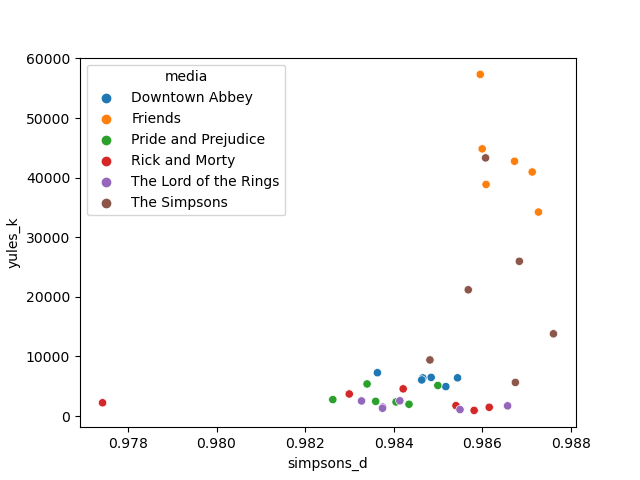
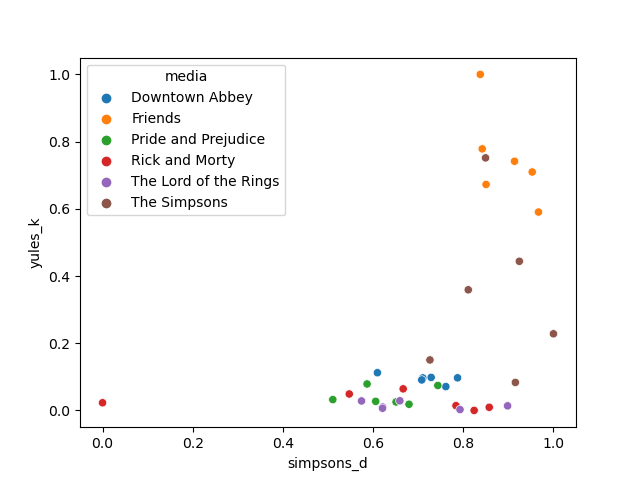
Improved heuristic visuals

diff --git a/code/visualizations.py b/code/visualizations.py
@@ -1,24 +1,45 @@
 import pandas as pd
 import matplotlib.pyplot as plt
 import seaborn as sns
+from sklearn.preprocessing import MinMaxScaler
+import warnings
 
-#bring in data/heuristics.csv file as a dataframe
-heuristics = pd.read_csv('../data/heuristics.csv')
+with warnings.catch_warnings():
+    warnings.filterwarnings("ignore", category=FutureWarning)
 
-#create scatterplot of simpsons_d vs yules_k
-sns.scatterplot(x='simpsons_d', y='yules_k', hue='media', data=heuristics)
-plt.savefig('../images/heuristics.png')
+    #bring in data/heuristics.csv file as a dataframe
+    heuristics = pd.read_csv('../data/heuristics.csv')
+    #use MinMaxScaler to scale simpsons_d and yules_k to be between 0 and 1
+    scaler = MinMaxScaler()
+    heuristics[['simpsons_d', 'yules_k']] = scaler.fit_transform(heuristics[['simpsons_d', 'yules_k']])
 
-#create smaller df with only The Simpsons and Friends
-heuristics_simpsons_friends = heuristics[(heuristics['media'] == 'The Simpsons') | (heuristics['media'] == 'Friends')]
-#further filter by removing Mr. Burns and Mo
-heuristics_simpsons_friends = heuristics_simpsons_friends[~heuristics_simpsons_friends['speaker'].isin(['C. Montgomery Burns', 'Moe Szyslak'])]
+    #create scatterplot of simpsons_d vs yules_k
+    sns.scatterplot(x='simpsons_d', y='yules_k', hue='media', data=heuristics)
+    plt.savefig('../images/heuristics.png')
 
-plt.cla()
-plt.figure(figsize=(8, 8))
-sns.scatterplot(x='simpsons_d', y='yules_k', hue='speaker', style='media', data=heuristics_simpsons_friends)
-plt.legend(loc='upper center', bbox_to_anchor=(0.5, -0.05),
-          fancybox=True, shadow=True, ncol=5)
-plt.tight_layout()
-plt.savefig('../images/heuristics_drilldown.png')
+    '''
+    #create smaller df with only The Simpsons and Friends
+    heuristics_simpsons_friends = heuristics[(heuristics['media'] == 'The Simpsons') | (heuristics['media'] == 'Friends')]
+    #further filter by removing Mr. Burns and Mo
+    heuristics_simpsons_friends = heuristics_simpsons_friends[~heuristics_simpsons_friends['speaker'].isin(['C. Montgomery Burns', 'Moe Szyslak'])]
 
+    plt.cla()
+    plt.figure(figsize=(8, 8))
+    sns.scatterplot(x='simpsons_d', y='yules_k', hue='speaker', style='media', data=heuristics_simpsons_friends)
+    plt.legend(loc='upper center', bbox_to_anchor=(0.5, -0.05),
+            fancybox=True, shadow=True, ncol=5)
+    plt.tight_layout()
+    plt.savefig('../images/heuristics_drilldown.png')
+    '''
+    #for each distinct value in the media column of the heuristics df, create a scatterplot of simpsons_d vs yules_k
+    for media in heuristics['media'].unique():
+        plt.cla()
+        plt.figure(figsize=(8, 8))
+        sns.scatterplot(x='simpsons_d', y='yules_k', hue='speaker', style='media', data=heuristics[heuristics['media'] == media])
+        
+        for i, txt in enumerate(heuristics[heuristics['media'] == media]['speaker']):
+            plt.annotate(txt, (heuristics[heuristics['media'] == media]['simpsons_d'].iloc[i], heuristics[heuristics['media'] == media]['yules_k'].iloc[i]))
+        #explicitly remove the legend
+        plt.legend().remove()
+        plt.tight_layout()
+        plt.savefig(f'../images/{media}_heuristics.png')
